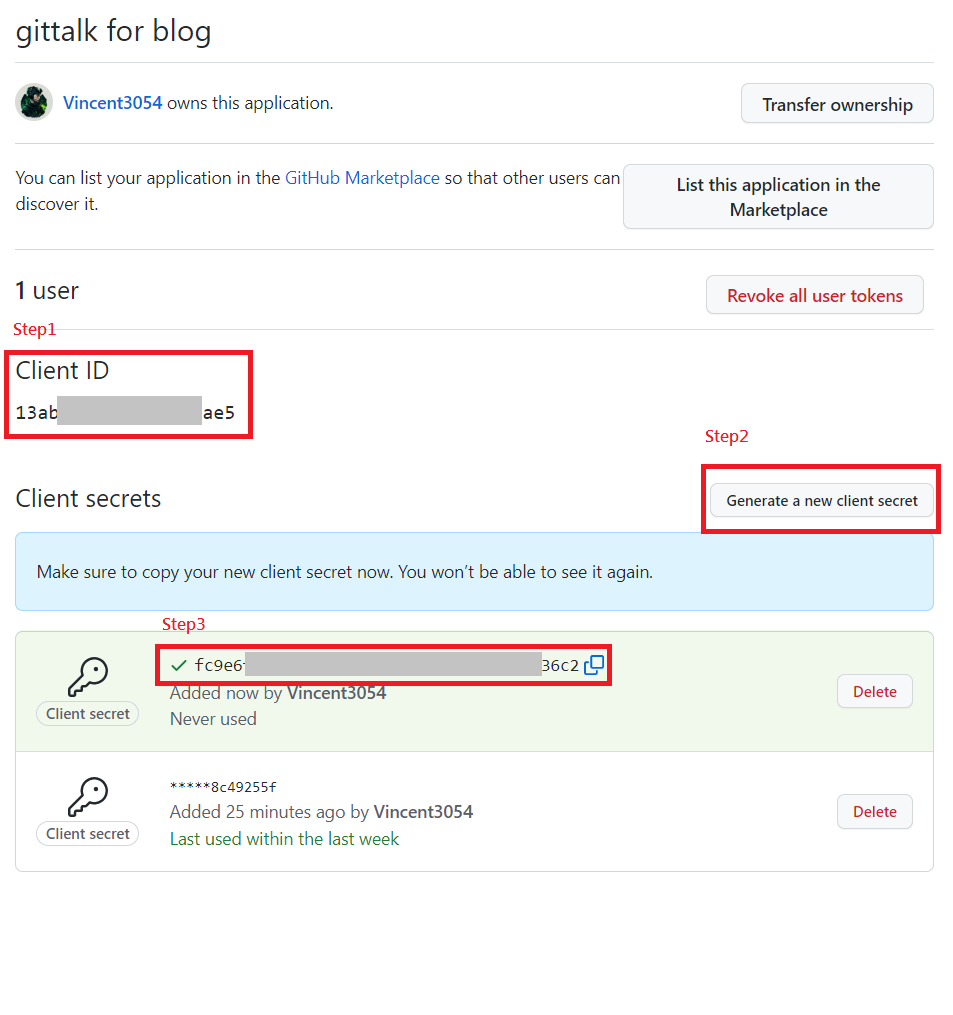
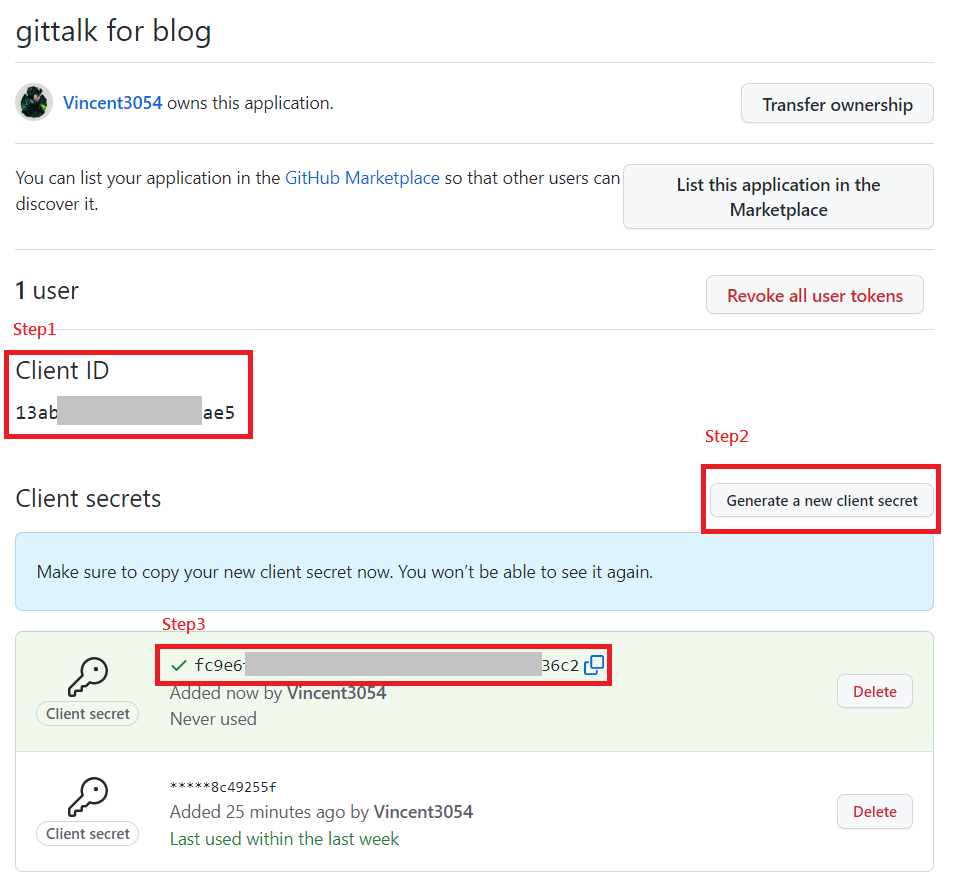
修改留言本套件設定

diff --git a/10minute/openai-linebot-ai-assistant/index.html b/10minute/openai-linebot-ai-assistant/index.html
@@ -582,7 +582,7 @@ GPT-3.5 則是由 GPT-3 微調出來的版本，而其中 GPT-3.5 使用與 GPT-
         }
         new Gitalk({
           clientID: '13ab4cf55a20f60eaae5',
-          clientSecret: 'a205de00e3ce3b21e9dda0beb645ea488c49255f',
+          clientSecret: 'fc9e6f4d6193d80cb52323bb94c84e1f0b9f36c2',
           repo: 'https:\/\/vincent3054.github.io\/',
           owner: 'vincent3054',
           admin: ['vincent3054'],

diff --git a/10minute/hugo-github-page-blog/index.html b/10minute/hugo-github-page-blog/index.html
@@ -757,7 +757,7 @@ $ git push or $ git push -u origin main
         }
         new Gitalk({
           clientID: '13ab4cf55a20f60eaae5',
-          clientSecret: 'a205de00e3ce3b21e9dda0beb645ea488c49255f',
+          clientSecret: 'fc9e6f4d6193d80cb52323bb94c84e1f0b9f36c2',
           repo: 'https:\/\/vincent3054.github.io\/',
           owner: 'vincent3054',
           admin: ['vincent3054'],

diff --git a/10minute/hugo-comment-board-disqus-gitalkw/index.html b/10minute/hugo-comment-board-disqus-gitalkw/index.html
@@ -671,7 +671,7 @@ if (!doNotTrack) {
         }
         new Gitalk({
           clientID: '13ab4cf55a20f60eaae5',
-          clientSecret: 'a205de00e3ce3b21e9dda0beb645ea488c49255f',
+          clientSecret: 'fc9e6f4d6193d80cb52323bb94c84e1f0b9f36c2',
           repo: 'https:\/\/vincent3054.github.io\/',
           owner: 'vincent3054',
           admin: ['vincent3054'],

diff --git a/10minute/hugo-website-seo-guide/index.html b/10minute/hugo-website-seo-guide/index.html
@@ -600,7 +600,7 @@ Disallow:
         }
         new Gitalk({
           clientID: '13ab4cf55a20f60eaae5',
-          clientSecret: 'a205de00e3ce3b21e9dda0beb645ea488c49255f',
+          clientSecret: 'fc9e6f4d6193d80cb52323bb94c84e1f0b9f36c2',
           repo: 'https:\/\/vincent3054.github.io\/',
           owner: 'vincent3054',
           admin: ['vincent3054'],
